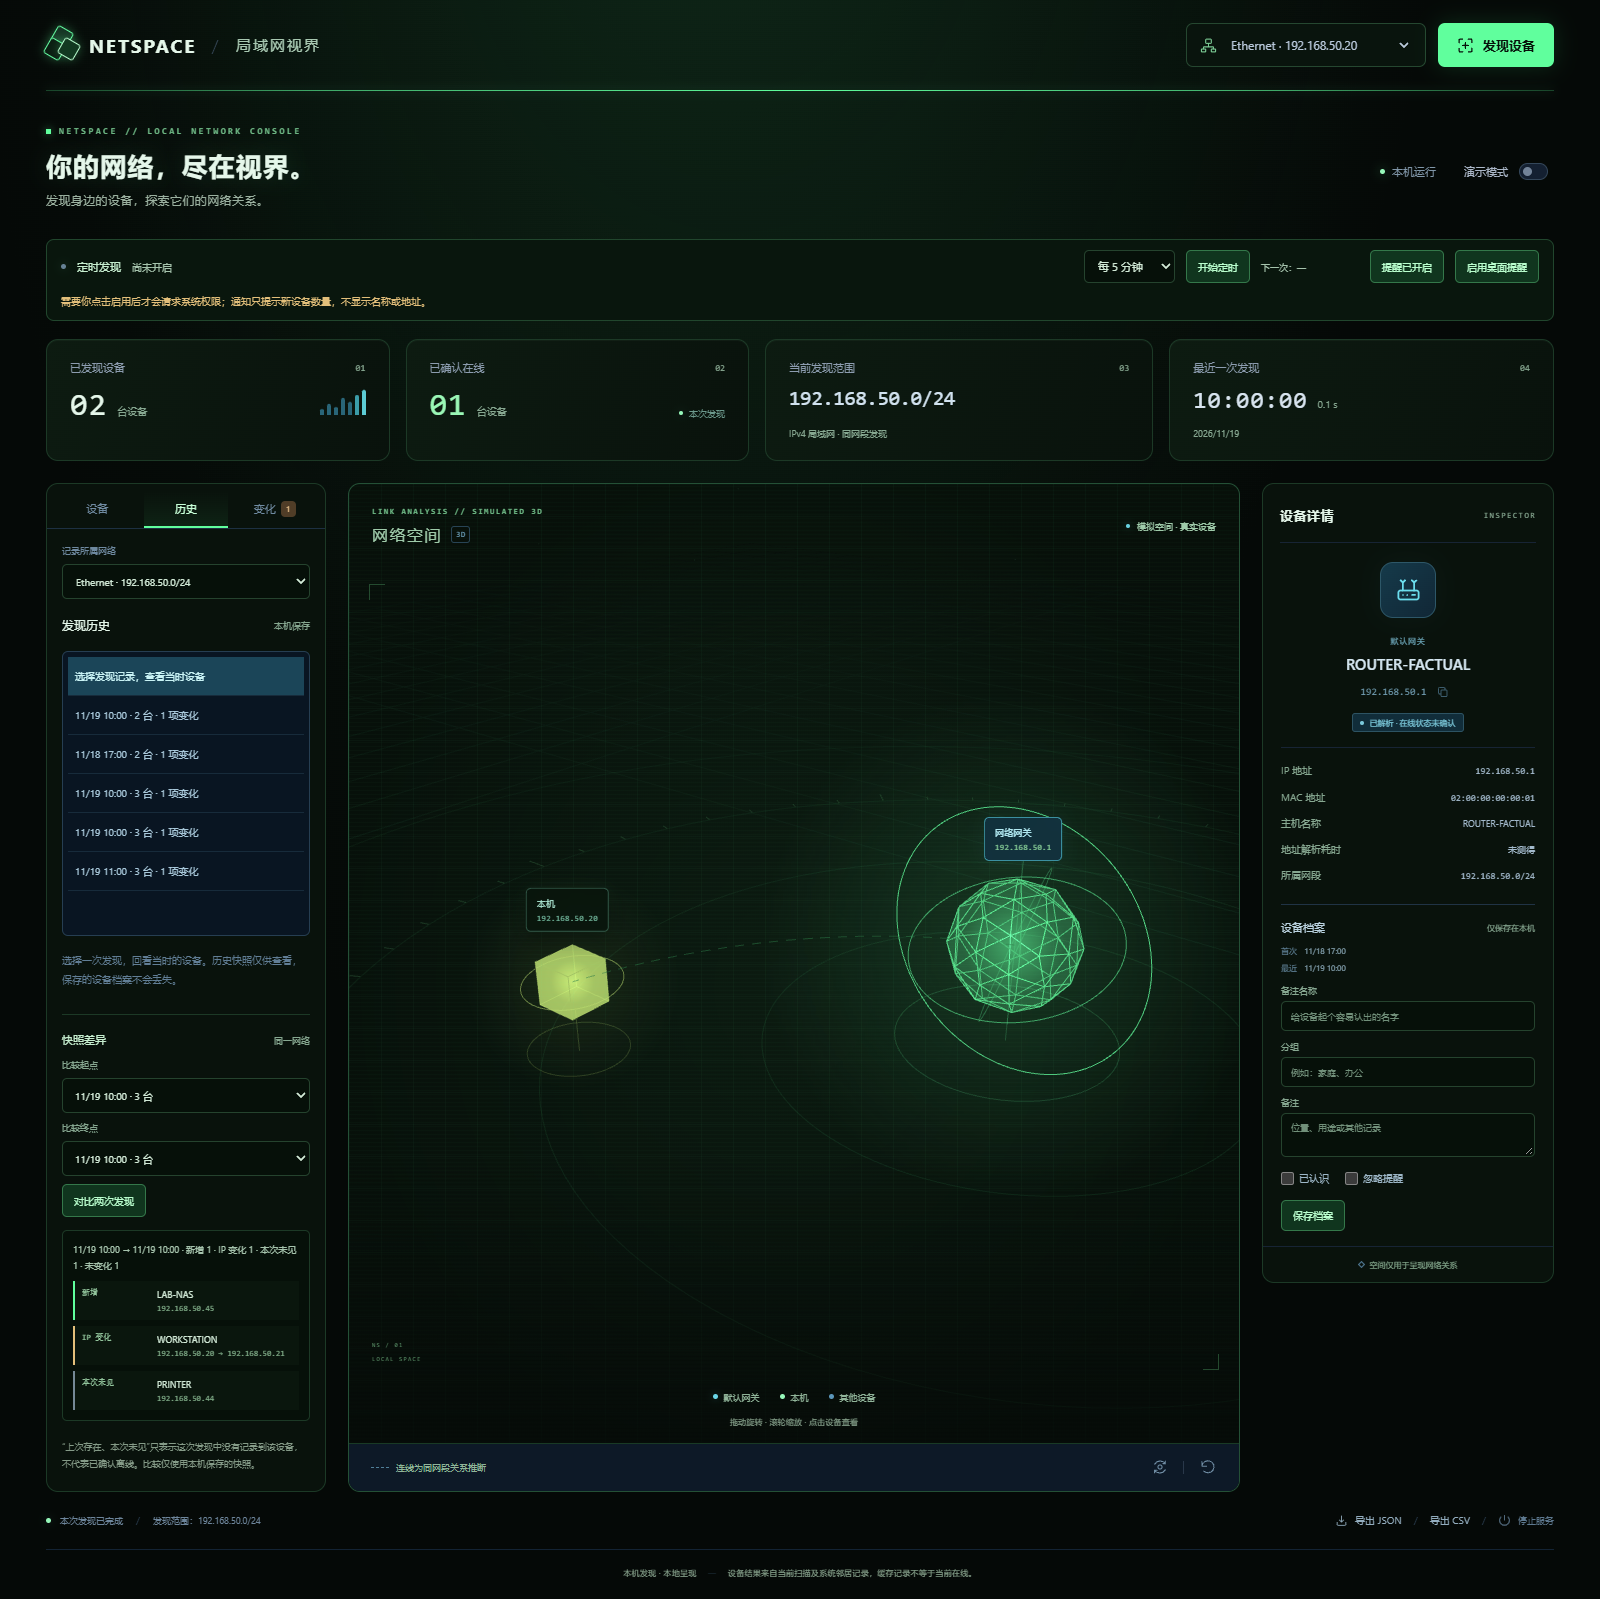
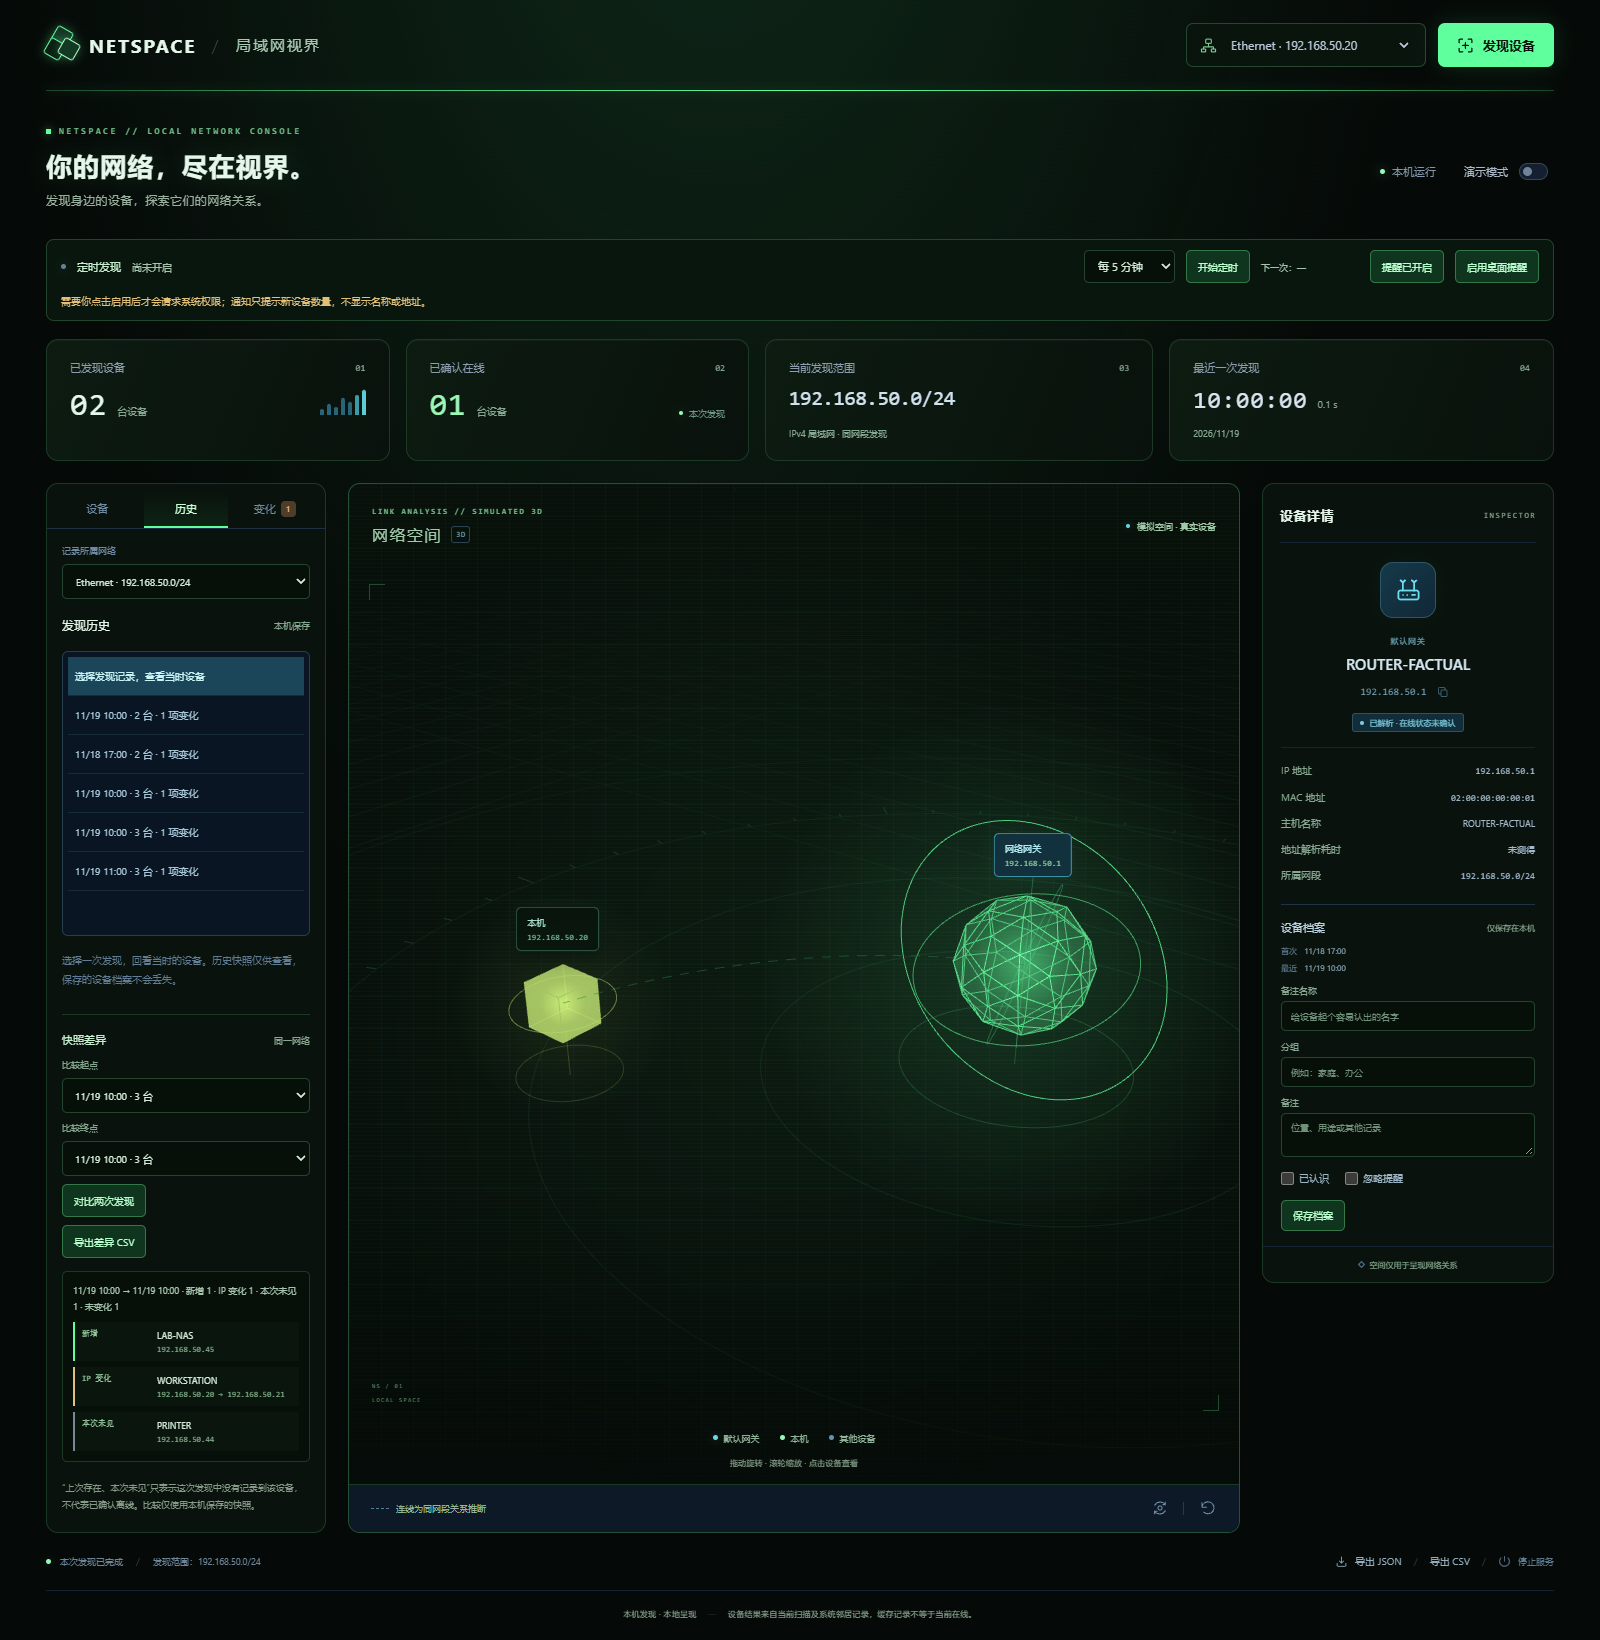
feat: export history differences as csv

diff --git a/web/index.html b/web/index.html
@@ -82,7 +82,7 @@
           <div id="list-empty" class="list-empty"><span class="empty-line"></span><p>设备将在发现后显示</p></div>
           <div class="device-panel-bottom"><span class="status-dot"></span><span id="device-panel-note">从本机发现当前局域网</span></div>
           </div>
-          <div id="history-pane" class="archive-pane" role="tabpanel" aria-labelledby="tab-history" hidden><div class="archive-heading"><h2>发现历史</h2><span class="micro-label">本机保存</span></div><label class="sr-only" for="history-scan">选择历史发现快照</label><select id="history-scan" size="7"><option value="">尚无历史记录</option></select><p class="archive-help">选择一次发现，回看当时的设备。历史快照仅供查看，保存的设备档案不会丢失。</p><section id="history-comparison-section" class="history-compare" aria-labelledby="history-compare-heading"><div class="history-compare-heading"><h3 id="history-compare-heading">快照差异</h3><span class="micro-label">同一网络</span></div><label for="history-compare-source">比较起点</label><select id="history-compare-source"><option value="">选择起始快照</option></select><label for="history-compare-target">比较终点</label><select id="history-compare-target"><option value="">选择对比快照</option></select><button id="history-compare-button" class="compact-button" type="button">对比两次发现</button><div id="history-comparison-results" class="history-comparison-results" aria-live="polite" aria-atomic="true"><p id="history-comparison-status" class="history-compare-status">选择两次同一网络的发现记录，查看设备变化。</p><ul id="history-comparison-list" class="history-comparison-list"></ul></div><p class="archive-help comparison-caveat">“上次存在、本次未见”只表示这次发现中没有记录到该设备，不代表已确认离线。比较仅使用本机保存的快照。</p></section></div>
+          <div id="history-pane" class="archive-pane" role="tabpanel" aria-labelledby="tab-history" hidden><div class="archive-heading"><h2>发现历史</h2><span class="micro-label">本机保存</span></div><label class="sr-only" for="history-scan">选择历史发现快照</label><select id="history-scan" size="7"><option value="">尚无历史记录</option></select><p class="archive-help">选择一次发现，回看当时的设备。历史快照仅供查看，保存的设备档案不会丢失。</p><section id="history-comparison-section" class="history-compare" aria-labelledby="history-compare-heading"><div class="history-compare-heading"><h3 id="history-compare-heading">快照差异</h3><span class="micro-label">同一网络</span></div><label for="history-compare-source">比较起点</label><select id="history-compare-source"><option value="">选择起始快照</option></select><label for="history-compare-target">比较终点</label><select id="history-compare-target"><option value="">选择对比快照</option></select><button id="history-compare-button" class="compact-button" type="button">对比两次发现</button><button id="history-csv-button" class="compact-button history-csv-button" type="button" disabled>导出差异 CSV</button><div id="history-comparison-results" class="history-comparison-results" aria-live="polite" aria-atomic="true"><p id="history-comparison-status" class="history-compare-status">选择两次同一网络的发现记录，查看设备变化。</p><ul id="history-comparison-list" class="history-comparison-list"></ul></div><p class="archive-help comparison-caveat">“上次存在、本次未见”只表示这次发现中没有记录到该设备，不代表已确认离线。比较仅使用本机保存的快照。</p></section></div>
           <div id="events-pane" class="archive-pane" role="tabpanel" aria-labelledby="tab-events" hidden><div class="archive-heading"><h2>网络变化</h2><button id="events-read" class="text-button" disabled>标为已读</button></div><ul id="event-list" class="event-list" aria-label="设备变化记录"></ul><p id="events-empty" class="archive-help">尚无变化记录。首次发现建立基准，后续变化将在这里显示。</p><p class="archive-help">“本次未见”仅表示此次未发现，不代表已确认离线。</p></div>
         </aside>
 

diff --git a/web/workspace.js b/web/workspace.js
@@ -1,3 +1,5 @@
+import { buildHistoryComparisonCsv } from '/csv.js';
+import { deviceIdentity } from '/identity.js';
 const EMPTY_PROFILE = { alias: '', notes: '', group: '', known: false, ignored: false };
 const EVENT_LABELS = { new: '新设备', returned: '再次发现', not_seen: '本次未见', ip_changed: 'IP 已变化' };
 
@@ -134,6 +136,8 @@ export function createWorkspace(options) {
   }
   function renderComparison() {
     const list = ui['history-comparison-list'], status = ui['history-comparison-status'];
+    const differenceCount = comparisonResult ? comparisonResult.added.length + comparisonResult.changed.length + comparisonResult.missing.length : 0;
+    ui['history-csv-button'].disabled = options.isStopped() || options.isDemo() || comparisonLoading || differenceCount === 0;
     list.replaceChildren();
     if (comparisonLoading) { status.textContent = '正在读取两次本地快照…'; return; }
     if (comparisonError) { status.textContent = comparisonError; return; }
@@ -154,10 +158,15 @@ export function createWorkspace(options) {
     }
     if (!entries.length) { const empty = document.createElement('li'); empty.className = 'comparison-no-change'; empty.textContent = '两次快照中的设备身份与 IP 地址没有可见变化。'; list.append(empty); }
   }
-  function deviceIdentity(device) {
-    if (typeof device.deviceKey === 'string' && device.deviceKey) return 'key:' + device.deviceKey;
-    const mac = typeof device.mac === 'string' ? device.mac.replace(/[^a-f0-9]/gi, '').toLowerCase() : '';
-    return mac ? 'mac:' + mac : 'ip:' + String(device.id || device.ip || '');
+  function exportHistoryComparison() {
+    if (!comparisonResult || options.isDemo() || options.isStopped()
+      || comparisonResult.added.length + comparisonResult.changed.length + comparisonResult.missing.length === 0) return;
+    const csv = buildHistoryComparisonCsv(comparisonResult, { exportedAt: new Date().toISOString() });
+    const url = URL.createObjectURL(new Blob([csv], { type: 'text/csv;charset=utf-8' }));
+    const anchor = document.createElement('a'); anchor.href = url;
+    anchor.download = 'netspace-HISTORY-DIFF-' + new Date().toISOString().replace(/[:.]/g, '-') + '.csv';
+    document.body.append(anchor); anchor.click(); anchor.remove(); setTimeout(() => URL.revokeObjectURL(url), 1000);
+    showToast('已导出 ' + (comparisonResult.added.length + comparisonResult.changed.length + comparisonResult.missing.length) + ' 项历史差异');
   }
   async function compareHistory() {
     if (options.isDemo() || options.isStopped() || !networkId) return;
@@ -335,6 +344,7 @@ export function createWorkspace(options) {
     ui['history-compare-button'].disabled = options.isStopped() || options.isDemo() || comparisonLoading || !comparisonSourceId || !comparisonTargetId || comparisonSourceId === comparisonTargetId;
   });
   ui['history-compare-button'].addEventListener('click', compareHistory);
+  ui['history-csv-button'].addEventListener('click', exportHistoryComparison);
   ui['history-scan'].addEventListener('change', async () => {
     const id = ui['history-scan'].value;
     if (!id || options.isDemo() || options.isStopped()) return;

diff --git a/web/csv.js b/web/csv.js
@@ -1,3 +1,5 @@
+import { deviceIdentity } from '/identity.js';
+
 const FORMULA_PREFIX = /^[\s\0\uFEFF\u200B-\u200F\u202A-\u202E\u2060]*[=+\-@＝＋－＠]/u;
 
 function cell(value) {
@@ -26,5 +28,22 @@ export function buildDeviceCsv(result, devices, metadata) {
     device.profile?.ignored ? '是' : '否',
     Array.isArray(device.evidence) ? device.evidence.map(item => typeof item === 'string' ? item : String(item?.type || item?.source || '系统记录')).join('；') : '',
   ])];
+  return '\uFEFF' + rows.map(row => row.map(cell).join(',')).join('\r\n') + '\r\n';
+}
+
+export function buildHistoryComparisonCsv(comparison, metadata) {
+  const headers = ['来源', '导出时间', '网络范围', '起始快照时间', '对比快照时间', '变化类型', '设备名称', 'MAC 地址', '稳定记录标识', '起始 IP 地址', '对比 IP 地址', '起始状态', '对比状态', '分组', '备注', '说明'];
+  const rows = [headers];
+  const name = device => device.profile?.alias || device.hostname || ({ self: '本机', gateway: '默认网关', device: '网络设备' }[device.kind] || '网络设备');
+  const status = device => ({ online: '已确认在线', resolved: '已解析 · 在线状态未确认', cached: '缓存记录 · 在线状态未确认', unverified: '待确认' }[device.status] || device.status || '待确认');
+  const append = (type, device, oldIp, newIp, oldStatus, newStatus, note = '') => rows.push([
+    '历史快照差异', metadata.exportedAt, comparison.target.scope?.cidr || comparison.target.interface?.cidr || '',
+    comparison.source.scannedAt, comparison.target.scannedAt, type, name(device), device.mac,
+    deviceIdentity(device), oldIp, newIp, oldStatus, newStatus,
+    device.profile?.group, device.profile?.notes, note,
+  ]);
+  for (const device of comparison.added) append('新增', device, '', device.ip, '', status(device));
+  for (const item of comparison.changed) append('IP 变化', item.after, item.before.ip, item.after.ip, status(item.before), status(item.after));
+  for (const device of comparison.missing) append('本次未见', device, device.ip, '', status(device), '', '本次未见不代表已确认离线');
   return '\uFEFF' + rows.map(row => row.map(cell).join(',')).join('\r\n') + '\r\n';
 }

diff --git a/web/identity.js b/web/identity.js
@@ -1,0 +1,5 @@
+export function deviceIdentity(device) {
+  if (typeof device.deviceKey === 'string' && device.deviceKey) return 'key:' + device.deviceKey;
+  const mac = typeof device.mac === 'string' ? device.mac.replace(/[^a-f0-9]/gi, '').toLowerCase() : '';
+  return mac ? 'mac:' + mac : 'ip:' + String(device.id || device.ip || '');
+}

diff --git a/tools/packaged_smoke.py b/tools/packaged_smoke.py
@@ -60,7 +60,7 @@ def main():
                 raise RuntimeError('Packaged application exited before startup')
             try:
                 health = request('/api/health', timeout=1)
-                assert health == {'app': 'NetSpace', 'version': '1.8.0'}
+                assert health == {'app': 'NetSpace', 'version': '1.9.0'}
                 break
             except Exception:
                 if time.monotonic() > deadline:
@@ -81,7 +81,7 @@ def main():
     try:
         wait_start()
         checks.append('bundled runtime without Python on PATH')
-        for resource in ('/', '/app.js', '/workspace.js', '/csv.js', '/scene.js', '/style.css',
+        for resource in ('/', '/app.js', '/workspace.js', '/csv.js', '/identity.js', '/scene.js', '/style.css',
                          '/vendor/three.module.js', '/vendor/three.core.js', '/vendor/OrbitControls.js'):
             bundled = request(resource)
             assert len(bundled) > 100, resource

diff --git a/app.py b/app.py
@@ -24,7 +24,7 @@ from monitoring import MonitorController
 from network_store import NetworkStore
 
 
-VERSION = '1.8.0'
+VERSION = '1.9.0'
 RESOURCE_ROOT = Path(getattr(sys, '_MEIPASS', Path(__file__).resolve().parent))
 WEB_ROOT = RESOURCE_ROOT / 'web'
 LOGGER = logging.getLogger('netspace')

diff --git a/docs/verification-1.9.0-2026-11-20.md b/docs/verification-1.9.0-2026-11-20.md
@@ -1,0 +1,19 @@
+# NetSpace 1.9.0 Verification Record
+
+Date: 2026-11-20
+
+## Results
+
+- `python -m unittest discover -s tests -v`: 81 regression tests passed.
+- `node tools/ui_smoke.cjs`: filtered device CSV, source marker, UTF-8 BOM, formula injection and quote handling, empty results, 320/375 px layouts, CSP, offline resources, and browser errors passed.
+- `node tools/ui_upgrade.cjs`: same-network snapshot comparison export passed with CSV field parsing, change category and address checks, formula-like names/groups, multiline quoted notes, empty-diff disabling, stale network and demo isolation, and 320/375 px layouts.
+- `node tools/ui_recovery.cjs`: adapter disconnect/reselection and in-flight discovery recovery passed.
+- `powershell -NoProfile -ExecutionPolicy Bypass -File build.ps1`: Windows single-file executable and distribution archives built.
+- `python tools/packaged_smoke.py`: the rebuilt Windows executable served bundled assets, including `/csv.js` and `/identity.js`, and passed native discovery, persistence across restarts, scheduled discovery, and clean shutdown.
+- `python -m py_compile app.py tools/packaged_smoke.py`, JavaScript syntax checks, and `git diff --check`: passed.
+
+## Scope and interpretation
+
+The history pane can export the completed comparison between two saved snapshots from the same local network. Each changed device gets one row containing source, export time, network range, both scan times, change kind, name, MAC, stable record identity, start/target addresses, prior/current status where applicable, group, notes, and an offline-status caveat for devices absent from the target snapshot. The identity column uses the same stable key → normalized MAC → IP fallback as the comparison itself. Unchanged devices are omitted. The button is disabled when there is no comparison, there are no changes, the selection is stale, the app is stopped, or demo mode is active.
+
+The export is generated in the browser and reuses the existing UTF-8 BOM, CSV quote escaping, and spreadsheet formula prefix handling. Browser verification parses the produced rows, retains explicitly quoted empty values, rejects malformed quote shapes in its parser, and checks every row retains all 16 columns, including embedded CRLF notes and trailing empty cells. It makes no additional API request and adds no database fields, network discovery, or third-party dependency.
